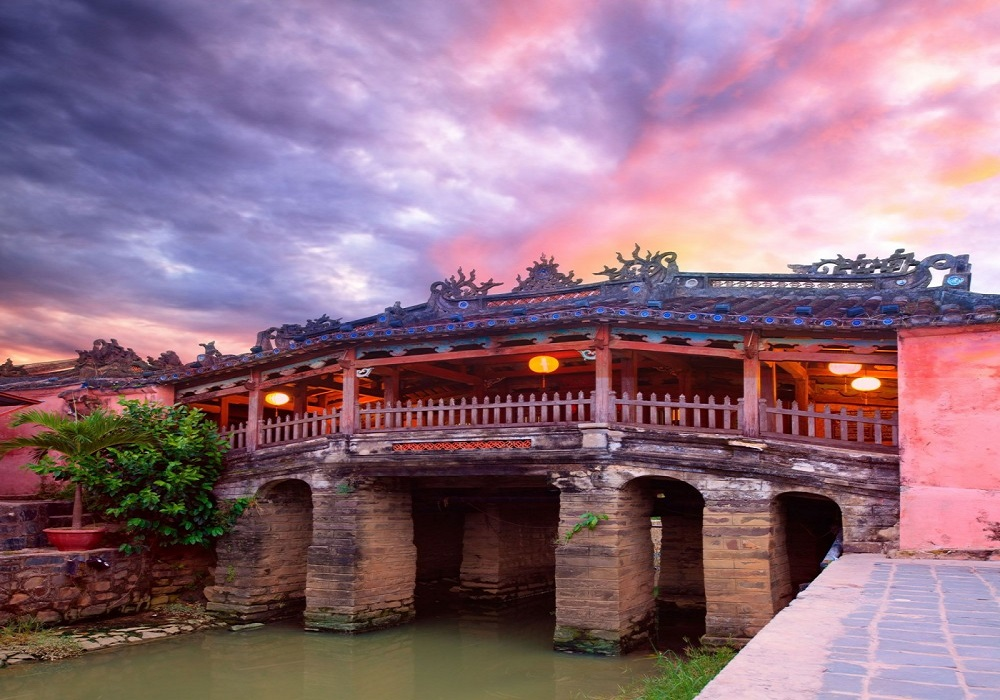
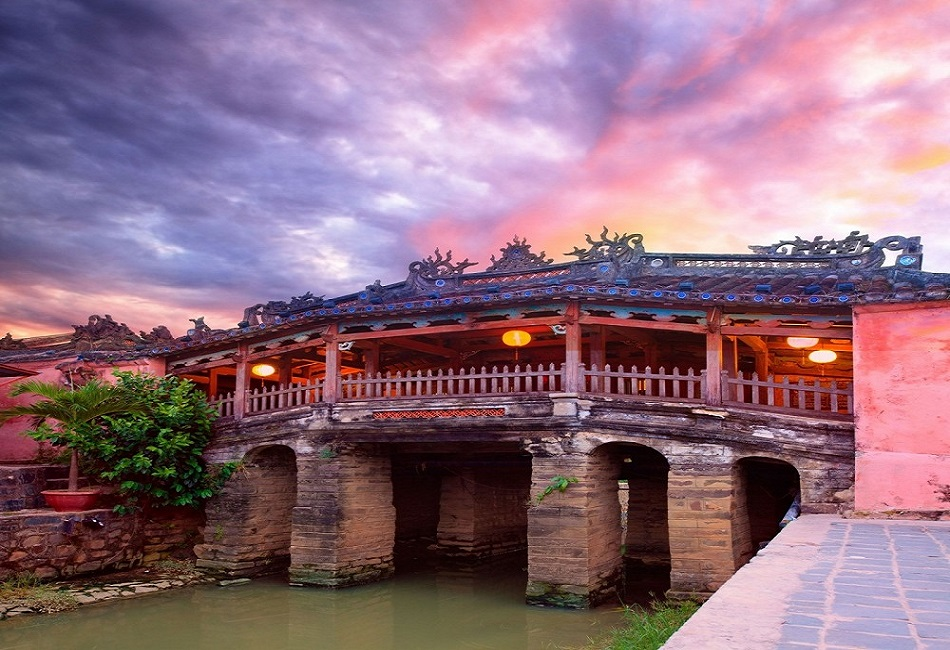
changed size of images

diff --git a/app/assets/stylesheets/static_pages.scss b/app/assets/stylesheets/static_pages.scss
@@ -110,6 +110,12 @@ a:hover, .btn-primary:hover, #login:hover, #edit:hover, #back:hover, .send-butto
 	max-height: 42em;
 }
 
+.img-responsive carouselpicture {
+	height: 42em;
+	width: 130em;
+	object-fit: contain;
+}
+
 .carousel-caption {
 	font-family: Acme,Arial,Georgia,serif;
 	color: #28c093;

diff --git a/app/assets/stylesheets/products.scss b/app/assets/stylesheets/products.scss
@@ -26,7 +26,7 @@
 
 .img-responsive picturebox {
     height: 16em;
-    width: 22 em;
+    width: 22em;
     object-fit: contain;
 }
 
